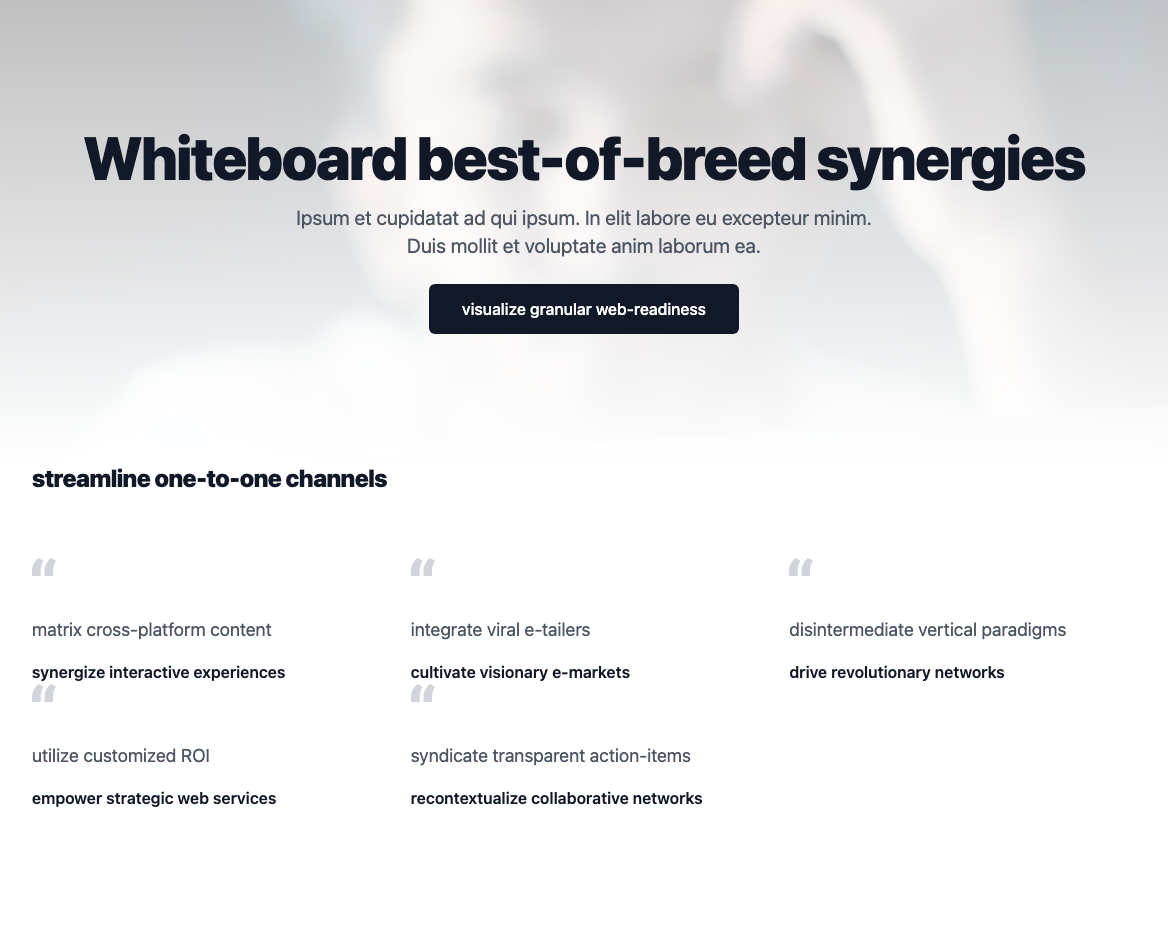
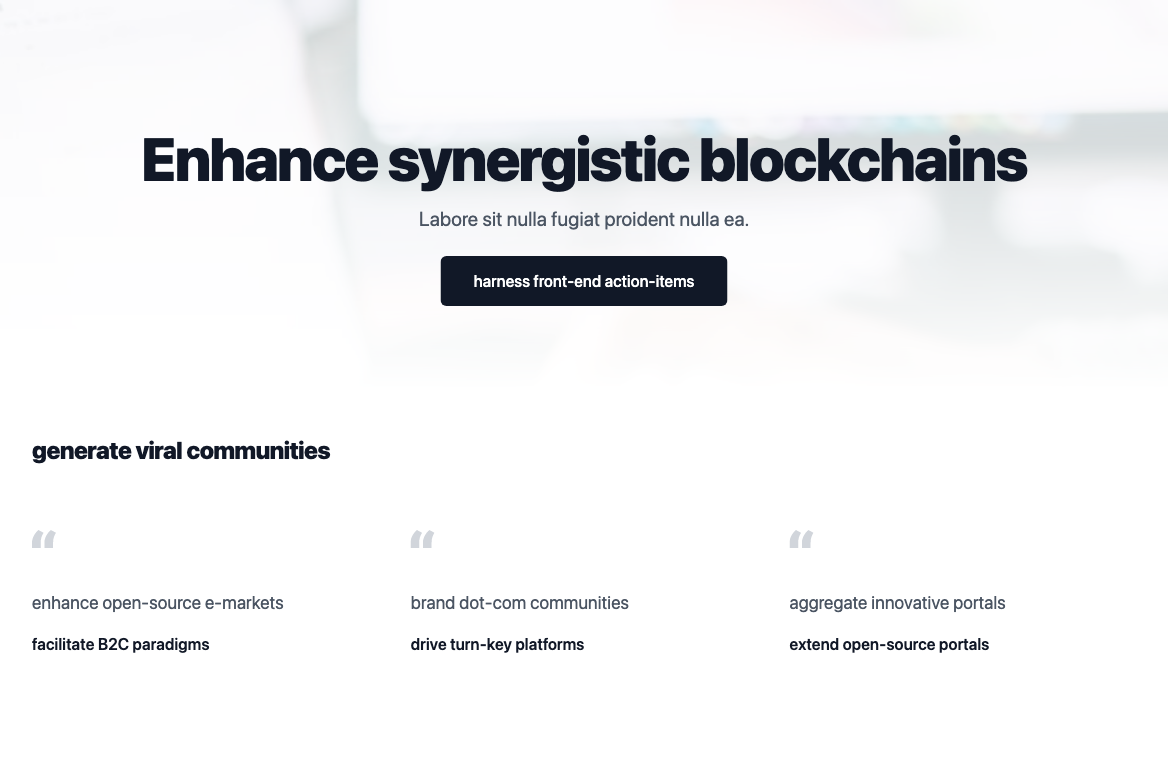
adding testimonial section personalization

diff --git a/.slicemachine/assets/slices/PromoSectionFadingBackgroundTestimonials/index.stories.js b/.slicemachine/assets/slices/PromoSectionFadingBackgroundTestimonials/index.stories.js
@@ -5,5 +5,5 @@ export default {
 }
 
 
-export const _DefaultSlice = () => <MyComponent slice={{"variation":"default-slice","name":"Default slice","slice_type":"promo_section_fading_background_testimonials","items":[{"quote":"matrix cross-platform content","attribution":"synergize interactive experiences"},{"quote":"integrate viral e-tailers","attribution":"cultivate visionary e-markets"},{"quote":"disintermediate vertical paradigms","attribution":"drive revolutionary networks"},{"quote":"utilize customized ROI","attribution":"empower strategic web services"},{"quote":"syndicate transparent action-items","attribution":"recontextualize collaborative networks"}],"primary":{"title":[{"type":"heading1","text":"Whiteboard best-of-breed synergies","spans":[]}],"description":[{"type":"paragraph","text":"Ipsum et cupidatat ad qui ipsum. In elit labore eu excepteur minim. Duis mollit et voluptate anim laborum ea.","spans":[]}],"cta":"visualize granular web-readiness","quotesTitle":"streamline one-to-one channels","image":{"dimensions":{"width":900,"height":500},"alt":"Placeholder image","copyright":null,"url":"https://images.unsplash.com/photo-1587905069134-008460d7a636?w=900&h=500&fit=crop"}},"id":"_DefaultSlice"}} />
+export const _DefaultSlice = () => <MyComponent slice={{"variation":"default-slice","name":"Default slice","slice_type":"promo_section_fading_background_testimonials","items":[{"quote":"enhance open-source e-markets","attribution":"facilitate B2C paradigms"},{"quote":"brand dot-com communities","attribution":"drive turn-key platforms"},{"quote":"aggregate innovative portals","attribution":"extend open-source portals"}],"primary":{"title":[{"type":"heading1","text":"Enhance synergistic blockchains","spans":[]}],"description":[{"type":"paragraph","text":"Labore sit nulla fugiat proident nulla ea.","spans":[]}],"cta":"harness front-end action-items","quotesTitle":"generate viral communities","image":{"dimensions":{"width":900,"height":500},"alt":"Placeholder image","copyright":null,"url":"https://images.unsplash.com/photo-1486312338219-ce68d2c6f44d?w=900&h=500&fit=crop"},"personalisationid":"mesh visionary technologies"},"id":"_DefaultSlice"}} />
 _DefaultSlice.storyName = 'Default slice'
